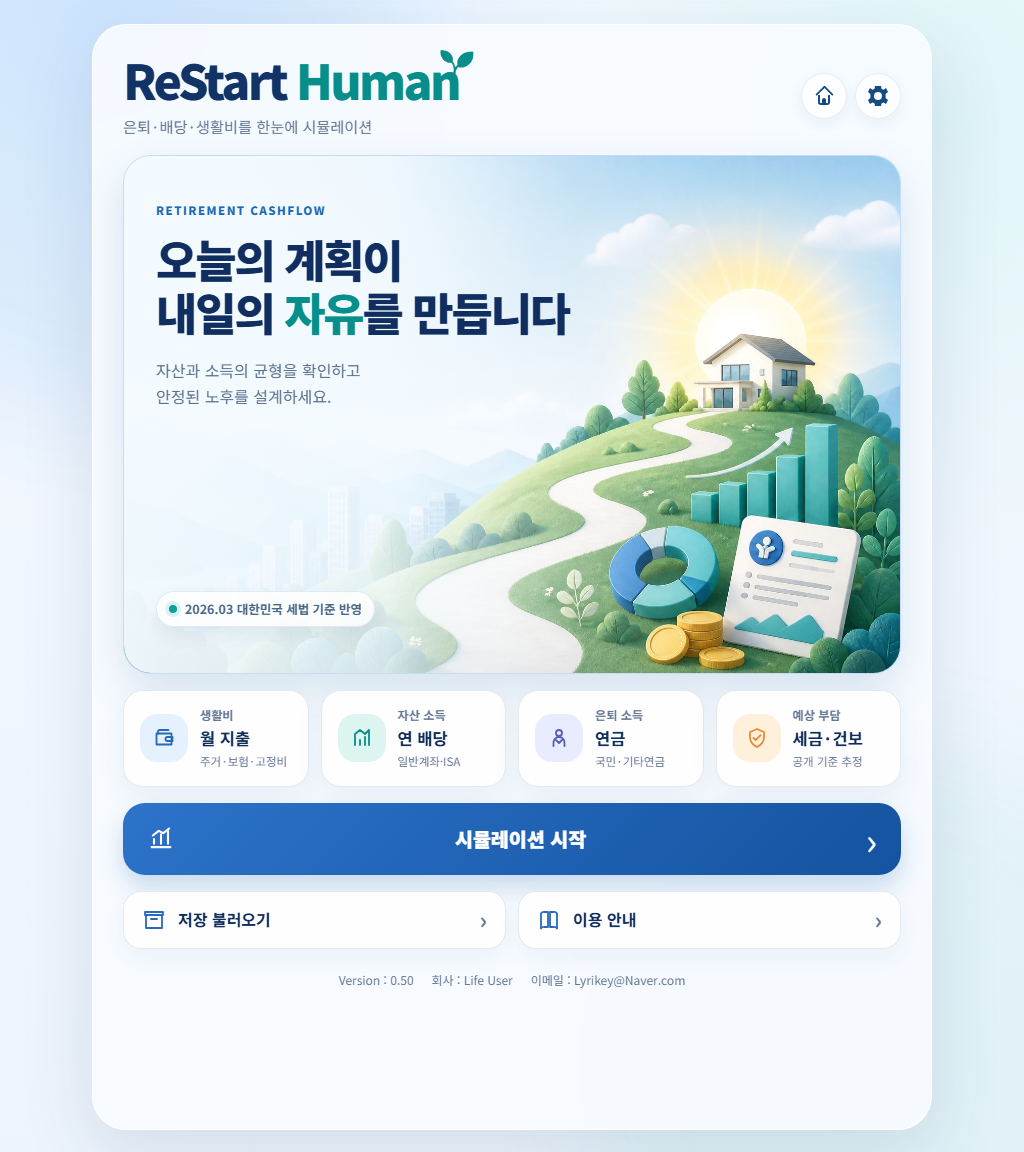
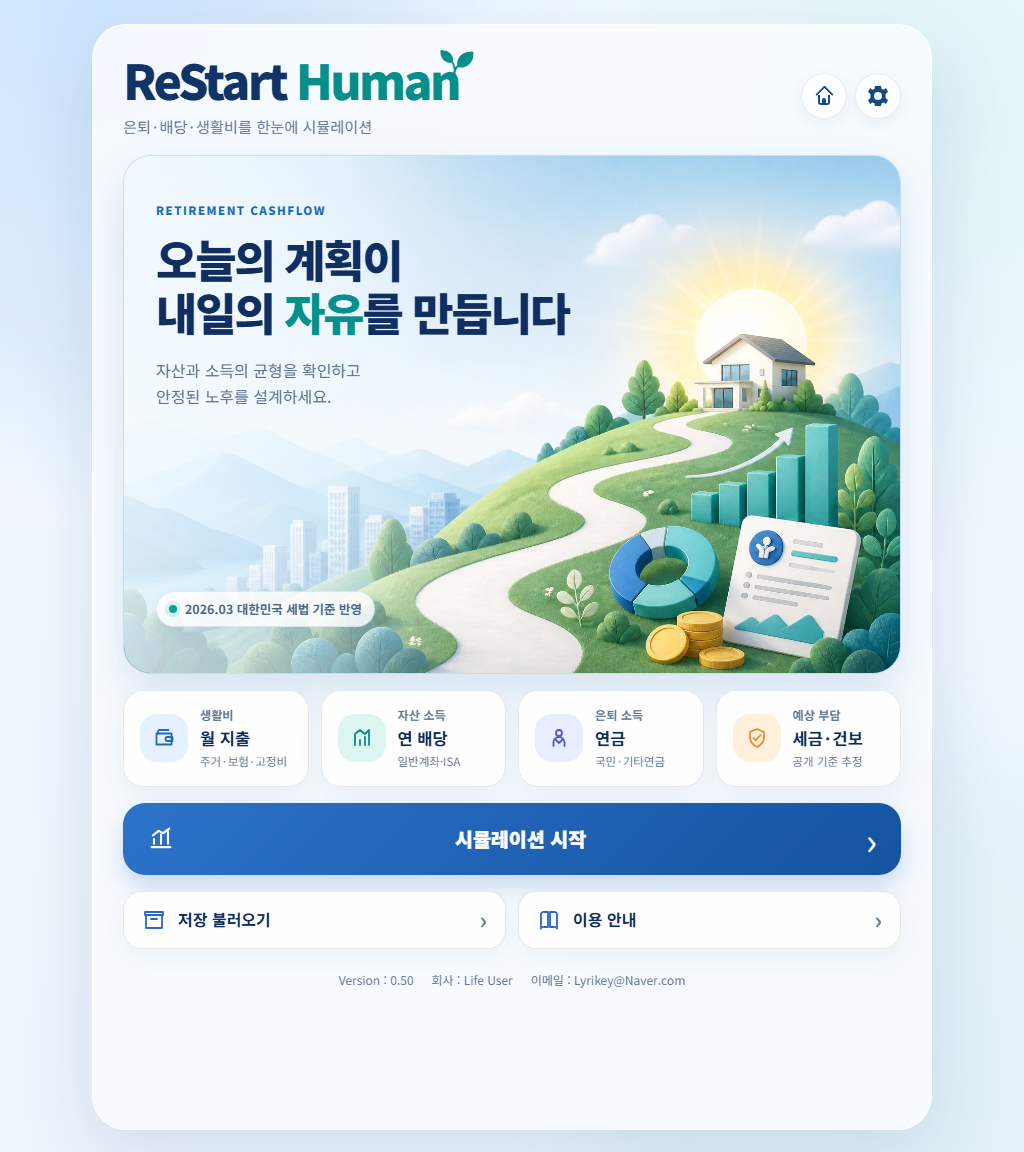
Reveal hero city details

Changed region(s): [[0.0938, 0.3438, 0.6562, 0.5938], [0.375, 0.125, 0.5, 0.1562]]

diff --git a/src/styles/fintech-refresh.css b/src/styles/fintech-refresh.css
@@ -459,7 +459,7 @@ body.theme-white .start-hero-overlay {
   justify-content: flex-start;
   padding: clamp(24px, 5vw, 46px);
   padding-left: clamp(16px, 3.5vw, 32px);
-  background: linear-gradient(90deg, rgba(244, 251, 255, 0.97) 0%, rgba(244, 251, 255, 0.86) 34%, rgba(244, 251, 255, 0.22) 58%, transparent 76%);
+  background: linear-gradient(90deg, rgba(244, 251, 255, 0.82) 0%, rgba(244, 251, 255, 0.56) 27%, rgba(244, 251, 255, 0.1) 44%, transparent 60%);
 }
 
 .start-hero-kicker {
@@ -542,7 +542,7 @@ body.theme-white .start-hero-panel .hero-copy {
 }
 
 :root:not(.theme-white) .start-hero-overlay {
-  background: linear-gradient(90deg, rgba(4, 18, 41, 0.97) 0%, rgba(4, 18, 41, 0.9) 35%, rgba(4, 18, 41, 0.36) 59%, transparent 78%);
+  background: linear-gradient(90deg, rgba(4, 18, 41, 0.84) 0%, rgba(4, 18, 41, 0.58) 28%, rgba(4, 18, 41, 0.16) 46%, transparent 62%);
 }
 
 :root:not(.theme-white) .start-hero-kicker {
@@ -1114,11 +1114,11 @@ body.theme-white .access-mode-card.is-active {
   body.theme-white .start-hero-overlay {
     padding: 24px 22px;
     padding-left: 14px;
-    background: linear-gradient(90deg, rgba(244, 251, 255, 0.98) 0%, rgba(244, 251, 255, 0.88) 42%, rgba(244, 251, 255, 0.14) 74%, transparent 100%);
+    background: linear-gradient(90deg, rgba(244, 251, 255, 0.86) 0%, rgba(244, 251, 255, 0.6) 34%, rgba(244, 251, 255, 0.08) 60%, transparent 84%);
   }
 
   :root:not(.theme-white) .start-hero-overlay {
-    background: linear-gradient(90deg, rgba(4, 18, 41, 0.98) 0%, rgba(4, 18, 41, 0.91) 43%, rgba(4, 18, 41, 0.3) 76%, transparent 100%);
+    background: linear-gradient(90deg, rgba(4, 18, 41, 0.88) 0%, rgba(4, 18, 41, 0.62) 35%, rgba(4, 18, 41, 0.14) 62%, transparent 86%);
   }
 
   .start-hero-kicker {

diff --git a/public/sw.js b/public/sw.js
@@ -1,4 +1,4 @@
-const CACHE_NAME = 'restarthuman-alpha-v60'
+const CACHE_NAME = 'restarthuman-alpha-v61'
 const toScopedUrl = (path) => new URL(path, self.registration.scope).toString()
 const APP_SHELL = [
   toScopedUrl('./'),
